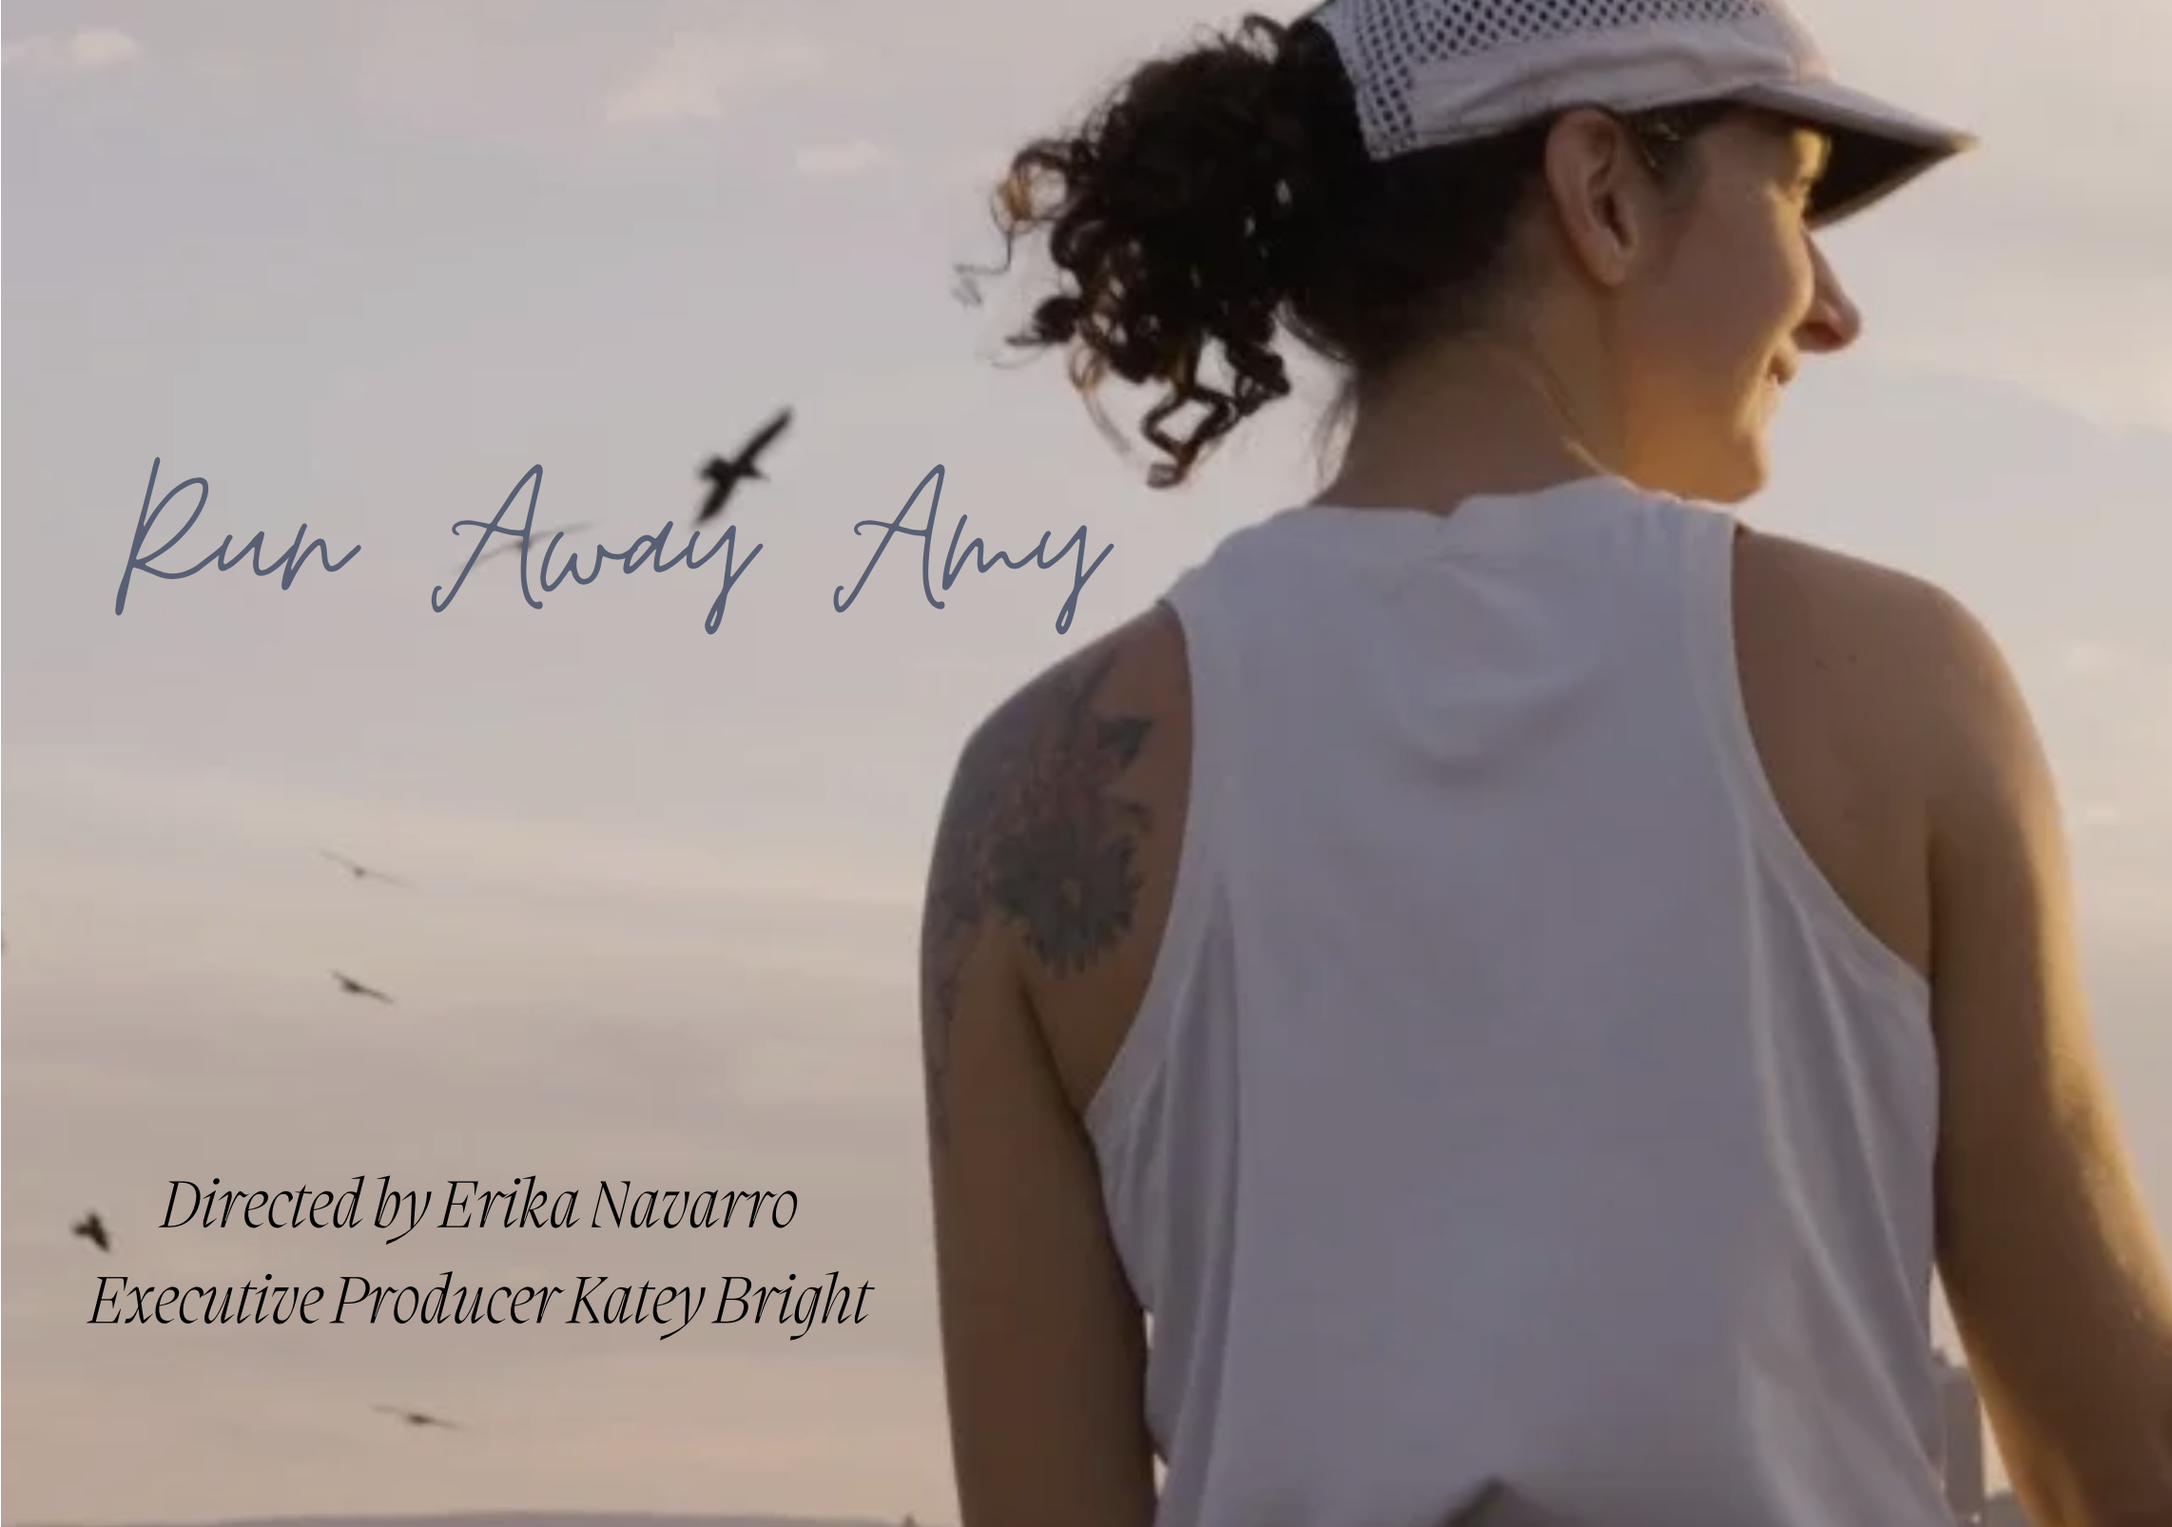
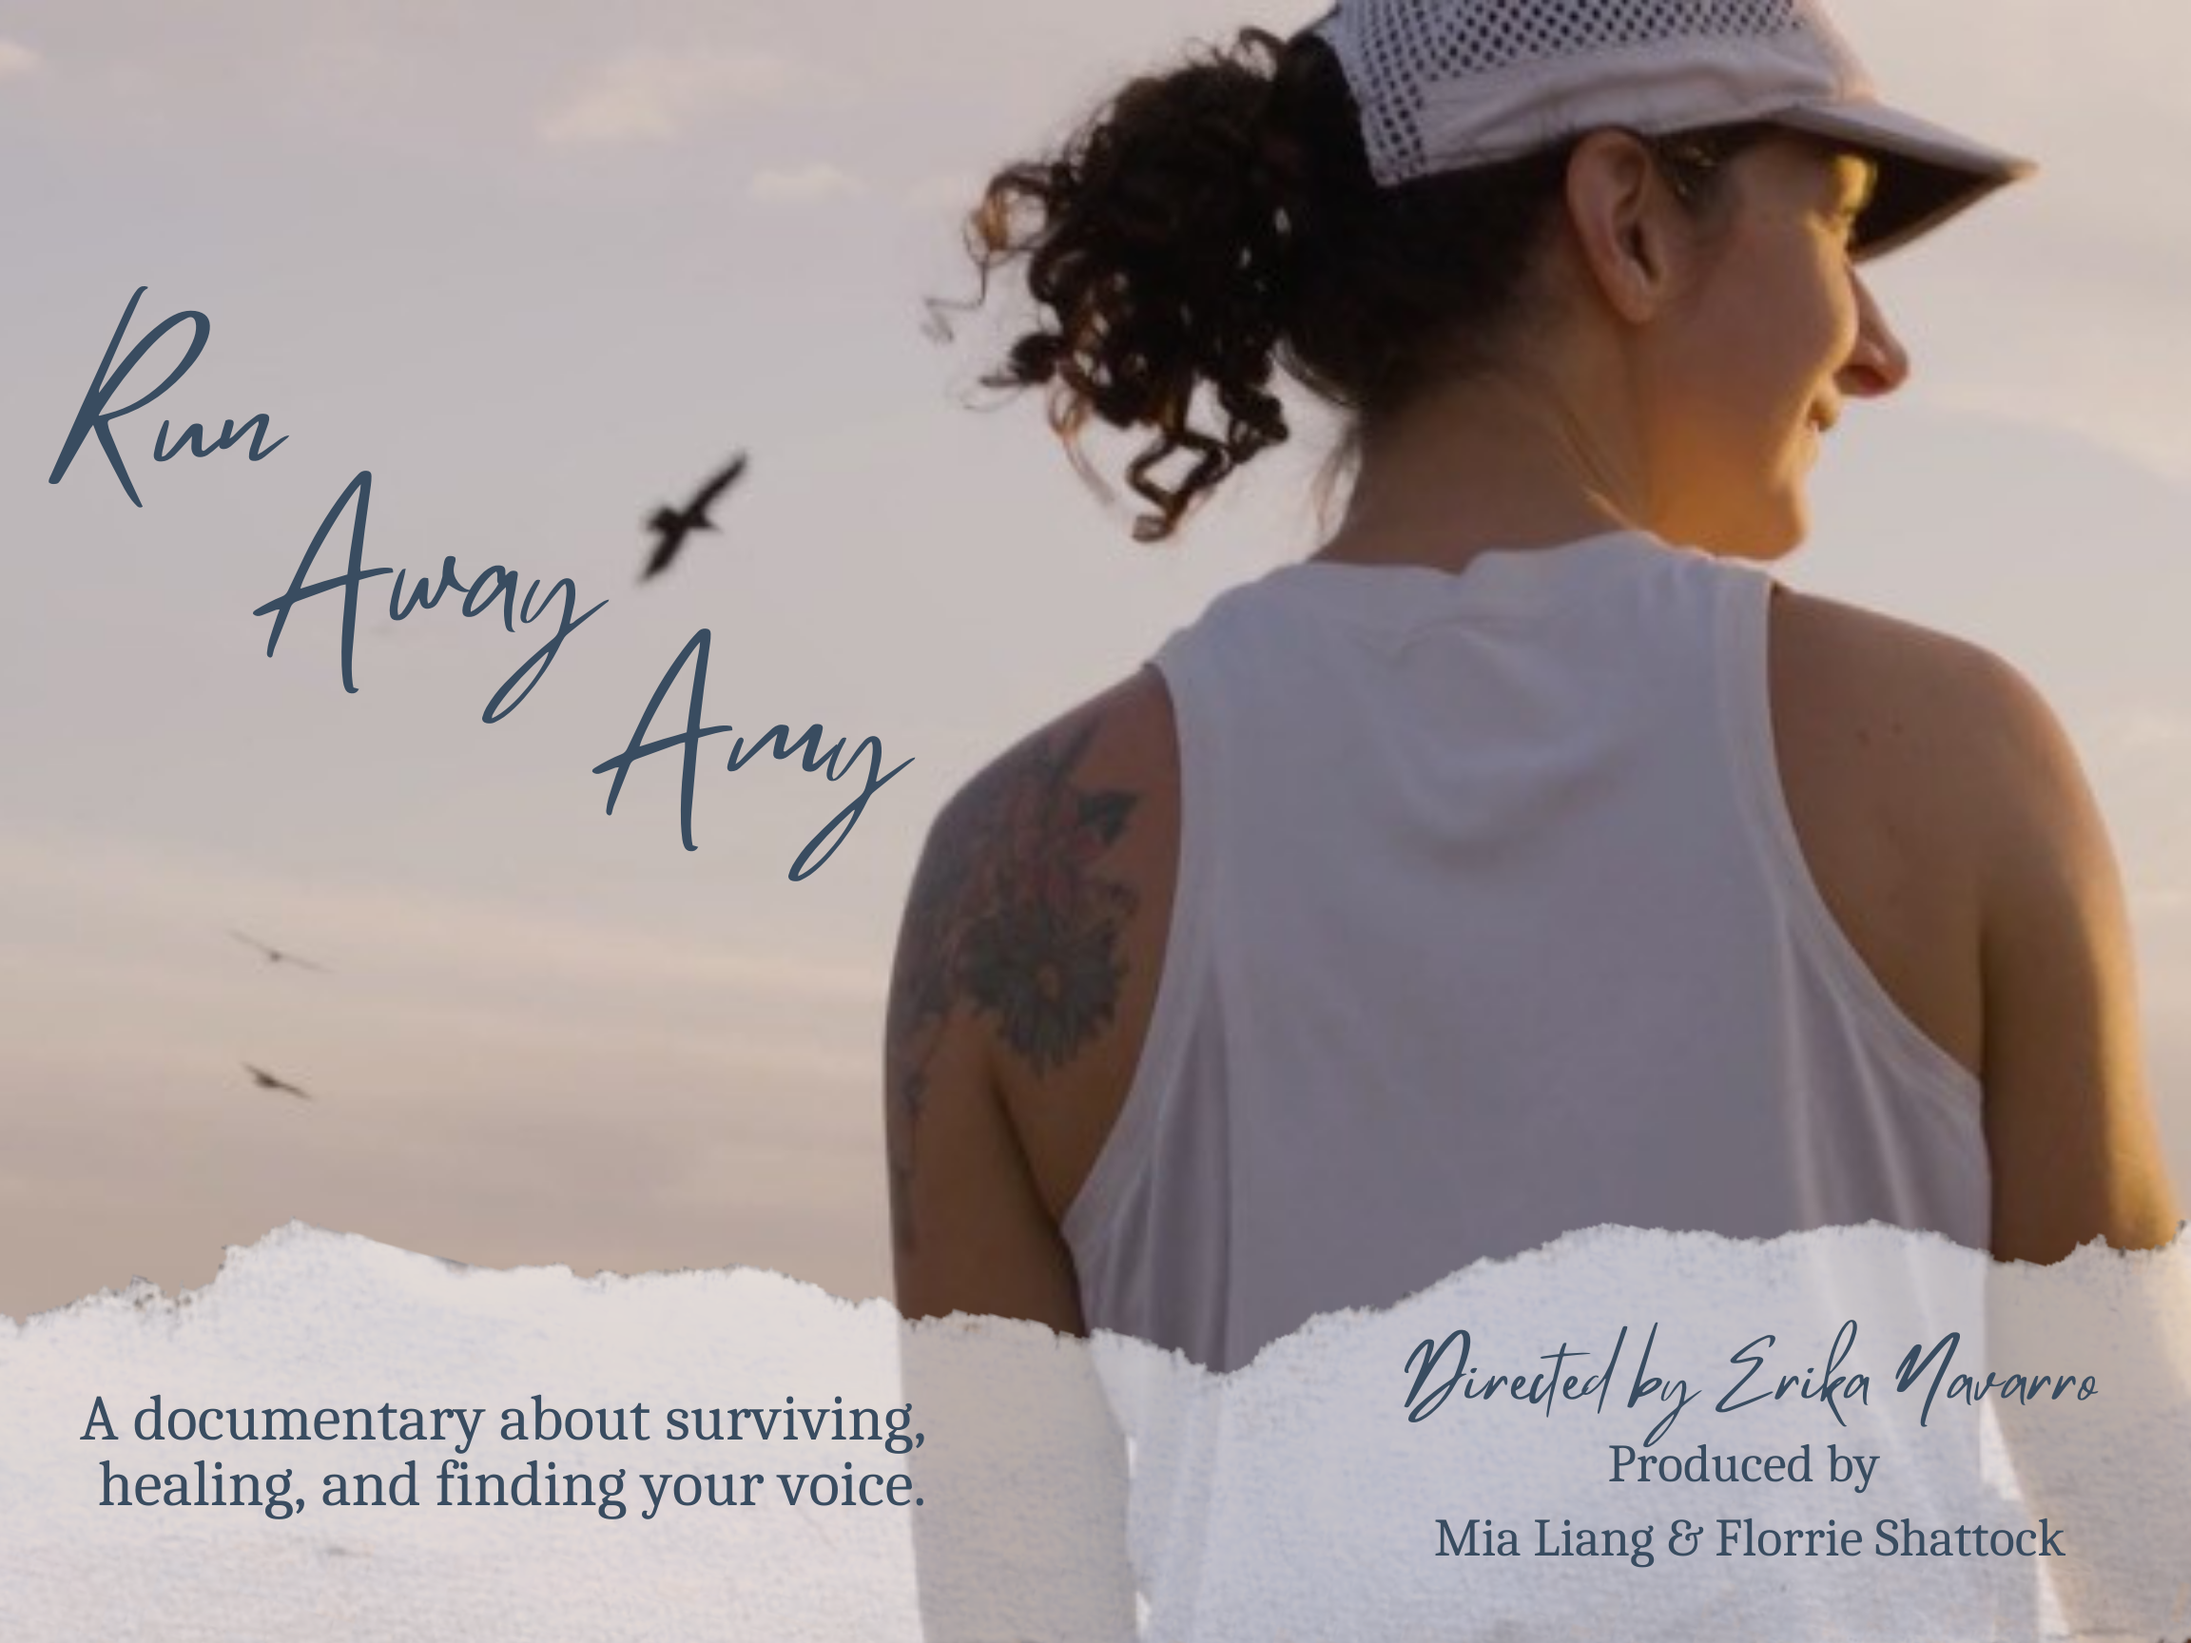
Updates June 9 2026

diff --git a/index.html b/index.html
@@ -69,11 +69,11 @@
                         </div>
                     </div>
                     <div class="carousel-item">
-                        <div class="carouselEntry mySundownCarousel">
+                        <div class="carouselEntry jealousWhiteMenCarousel">
                             <div>
-                                <h2 class="carouselTitle">My Sundown</h2>
+                                <h2 class="carouselTitle">Jealous White Men</h2>
                                 <p class="carouselText">COMING SOON</p>
-                                <a class="carouselButtonContainer" href="#mySundownProject">
+                                <a class="carouselButtonContainer" href="#jealousWhiteMenProject">
                                     <button class="carouselButton">LEARN MORE</button>
                                 </a>
                             </div>
@@ -130,6 +130,27 @@
                             </p>
                         </div>
                     </div>
+                </div>
+                <div class="projectHorizontal">
+                    <div class="projectImageContainer projectHorizontalImage" id="jealousWhiteMenProject">
+                        <img class="projectImage" src="./images/Jealous White Men.webp" alt="Jealous White Men Movie Poster" />
+                    </div>
+                    <div class="projectHorizontalText">
+                        <h3 class="projectTitle">Jealous White Men</h3>
+                        <p>IN POST-PRODUCTION
+                            <br />
+                            <br />
+                            <span style="color:#23301d">
+                                Jealous Jules Verne, exposed for never leaving Europe, spins a wild and loquacious tale of globetrotter Charles Darwin’s journey to the Galapagos, where he turns into a hunter and cannibal on an island full of pirates and slaves.
+                                <br /><br />
+                                Disappointed by not surprised, his wife Honorine challenges the narrative, unveiling a parallel tale: While searching for strange creatures and his lost lover Captain FitzRoy, the English explorer is captured by a female commando dedicated to freeing slaves, led by Italian Captain Carola, an erudite former nun who has already made enough discoveries to thwart Darwin’s egomaniacal thirst for glory.
+                                <br /><br />
+                                Blurring the boundaries between reality and fiction, truth and myth, these playful and politically incorrect tales question if we will ever know who is really behind history.
+                            </span>
+                        </p>
+                    </div>
+                </div>
+                <div class="projects">
                     <div class="project" id="mySundownProject">
                         <div class="projectImageContainer">
                             <img class="projectImage mySundownImage" src="./images/My Sundown.jpg" alt="My Sundown Movie Poster" />

diff --git a/ourteam.html b/ourteam.html
@@ -69,7 +69,7 @@
                         </div>
                     </div>
                 </div>
-                <div class="aboutUsEntry" style="margin-bottom: 0;">
+                <div class="aboutUsEntry">
                     <div class="aboutUsImageContainer">
                         <img src="./images/Florrie Shattock.webp" alt="Florrie Shattock" class="aboutUsImage" />
                     </div>
@@ -80,6 +80,21 @@
                                 <br>
                                 <br>
                                 Florrie Shattock is a writer & filmmaker from Chicago, specializing in speculative fiction. They have worked in marketing & sales at Visit Films, digital & social media marketing at WITHIN, as well as on numerous independent films at Wesleyan and beyond. They graduated from Wesleyan University with a BA in Film Studies & English Literature.
+                            </p>
+                        </div>
+                    </div>
+                </div>
+                <div class="aboutUsEntry" style="margin-bottom: 0;">
+                    <div class="aboutUsImageContainer">
+                        <img src="./images/Skye Kuppig.jpeg" alt="Skye Kuppig" class="aboutUsImage" />
+                    </div>
+                    <div class="aboutUsText">
+                        <div>
+                            <h2>Skye Kuppig</h2>
+                            <p style="color:#3A5030">HEAD OF DEVELOPMENT
+                                <br>
+                                <br>
+                                Skye Kuppig hails from Massachusetts and is currently based in Rome. She began working in distribution and global sales at Cinetic, Oscilloscope Labs, and Magnolia Pictures in New York, where she helped to launch award-winning films at top festivals including Cannes, Venice, and Berlin and developed her love for director-driven cinema made to capture international and diverse audiences. She has since expanded to working in development and production in Europe, where she has collaborated with production companies including the Fremantle-owned Wildside and Il Varco. In her free time, she writes about film and contemporary art for the Netherlands-based magazine Tubelight. Skye graduated summa cum laude from Columbia University with a BA in Film and Media Studies and holds a master’s certificate in Film and Creative Writing from the Holden School in Turin.
                             </p>
                         </div>
                     </div>

diff --git a/css/style.css b/css/style.css
@@ -177,6 +177,22 @@ p {
     opacity: .8;
 }
 
+.projectHorizontal {
+    display: grid;
+    column-gap: 0.8em;
+    grid-template-columns: 50% 50%;
+    padding-top: 2.6em;
+    padding-bottom: 2.6em;
+}
+
+.projectHorizontalText {
+    margin-left: 8.33333%;
+}
+
+.projectHorizontalImage {
+    place-self: center; 
+}
+
 .footerLogo {
     height: 2em;
     width: auto;
@@ -223,7 +239,7 @@ footer div nav {
     display: flex;
     width: 100%;
     background-size: cover;
-    background-position: center top;
+    background-position: center center;
     background-repeat: no-repeat;
     justify-content: center;
     align-items: center;
@@ -270,6 +286,10 @@ footer div nav {
 
 .mySundownCarousel {
     background-image: linear-gradient( rgba(0, 0, 0, 0.5), rgba(0, 0, 0, 0.5) ), url('../images/My\ Sundown.jpg');
+}
+
+.jealousWhiteMenCarousel {
+    background-image: linear-gradient( rgba(0, 0, 0, 0.5), rgba(0, 0, 0, 0.5) ), url('../images/Jealous\ White\ Men.webp');
 }
 
 footer p {
@@ -478,5 +498,18 @@ body {
 
     main {
         padding: 10vh 6vw;
+    }
+
+    .projectHorizontal {
+        display: flex;
+        flex-direction: column;
+        align-items: center;
+        padding-left: 0.3em;
+        padding-right: 0.3em;
+        row-gap: 0;
+    }
+
+    .projectHorizontalText {
+        margin-left: 0%;
     }
 }
